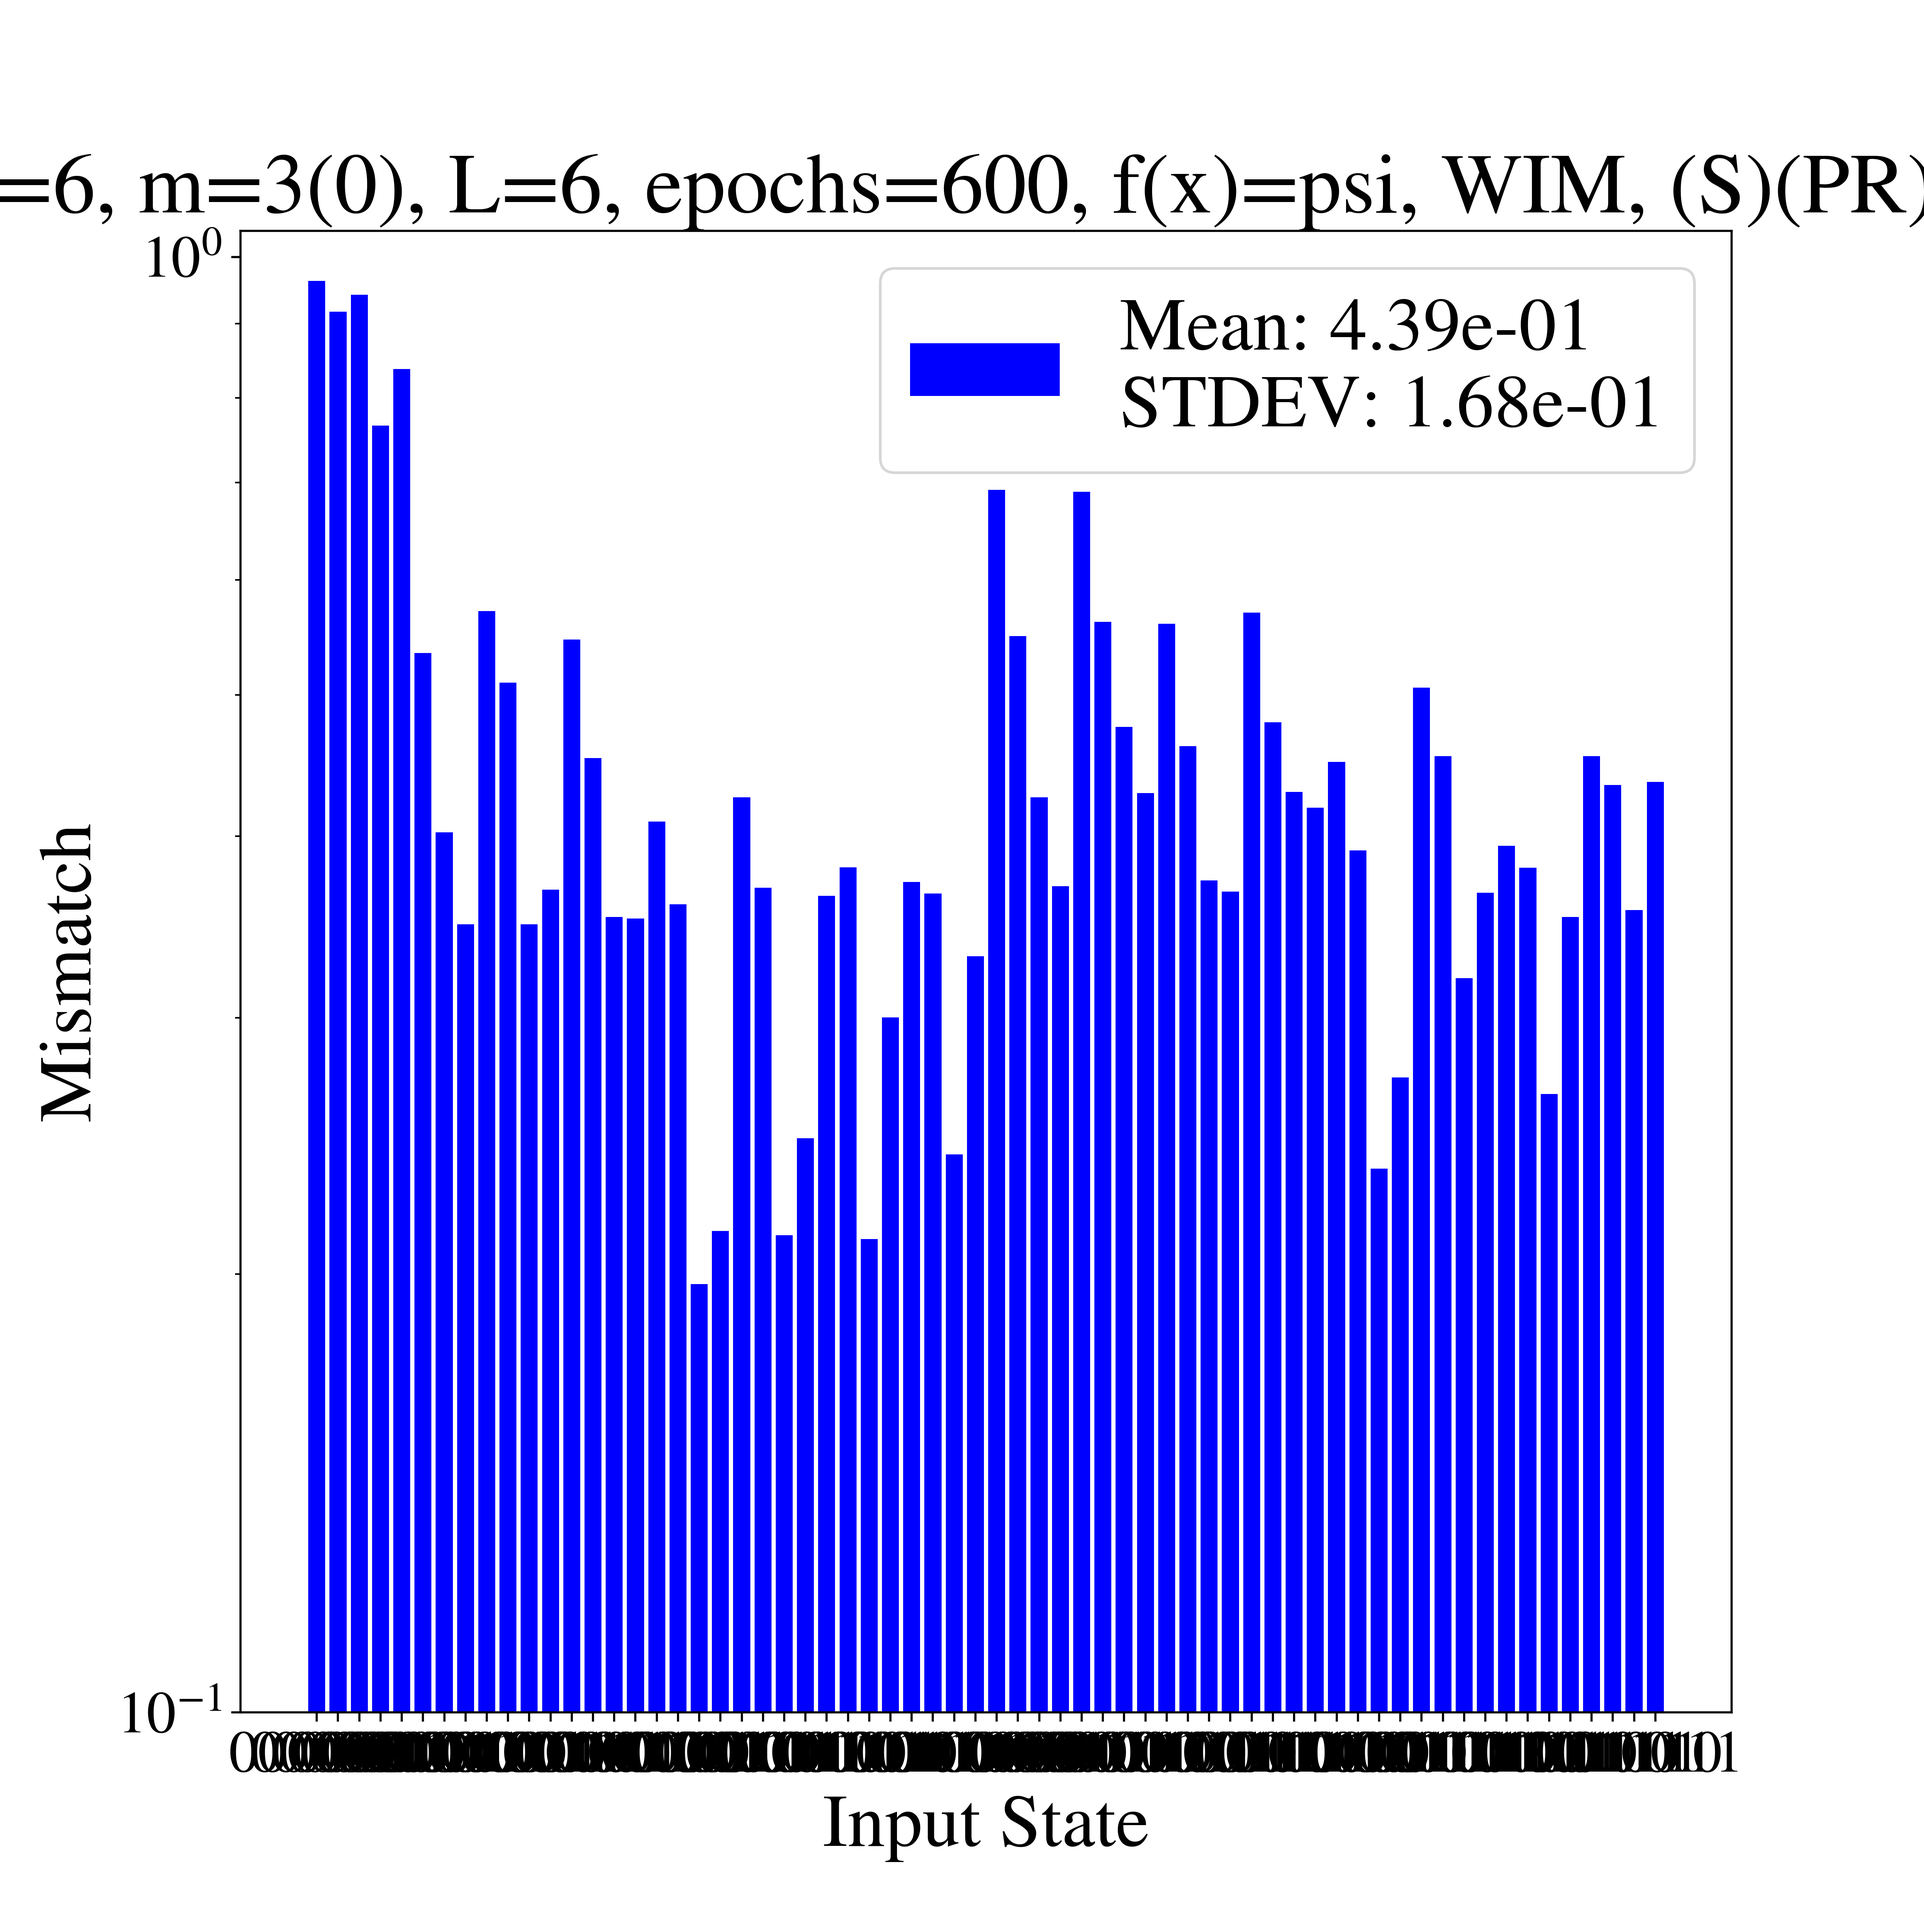
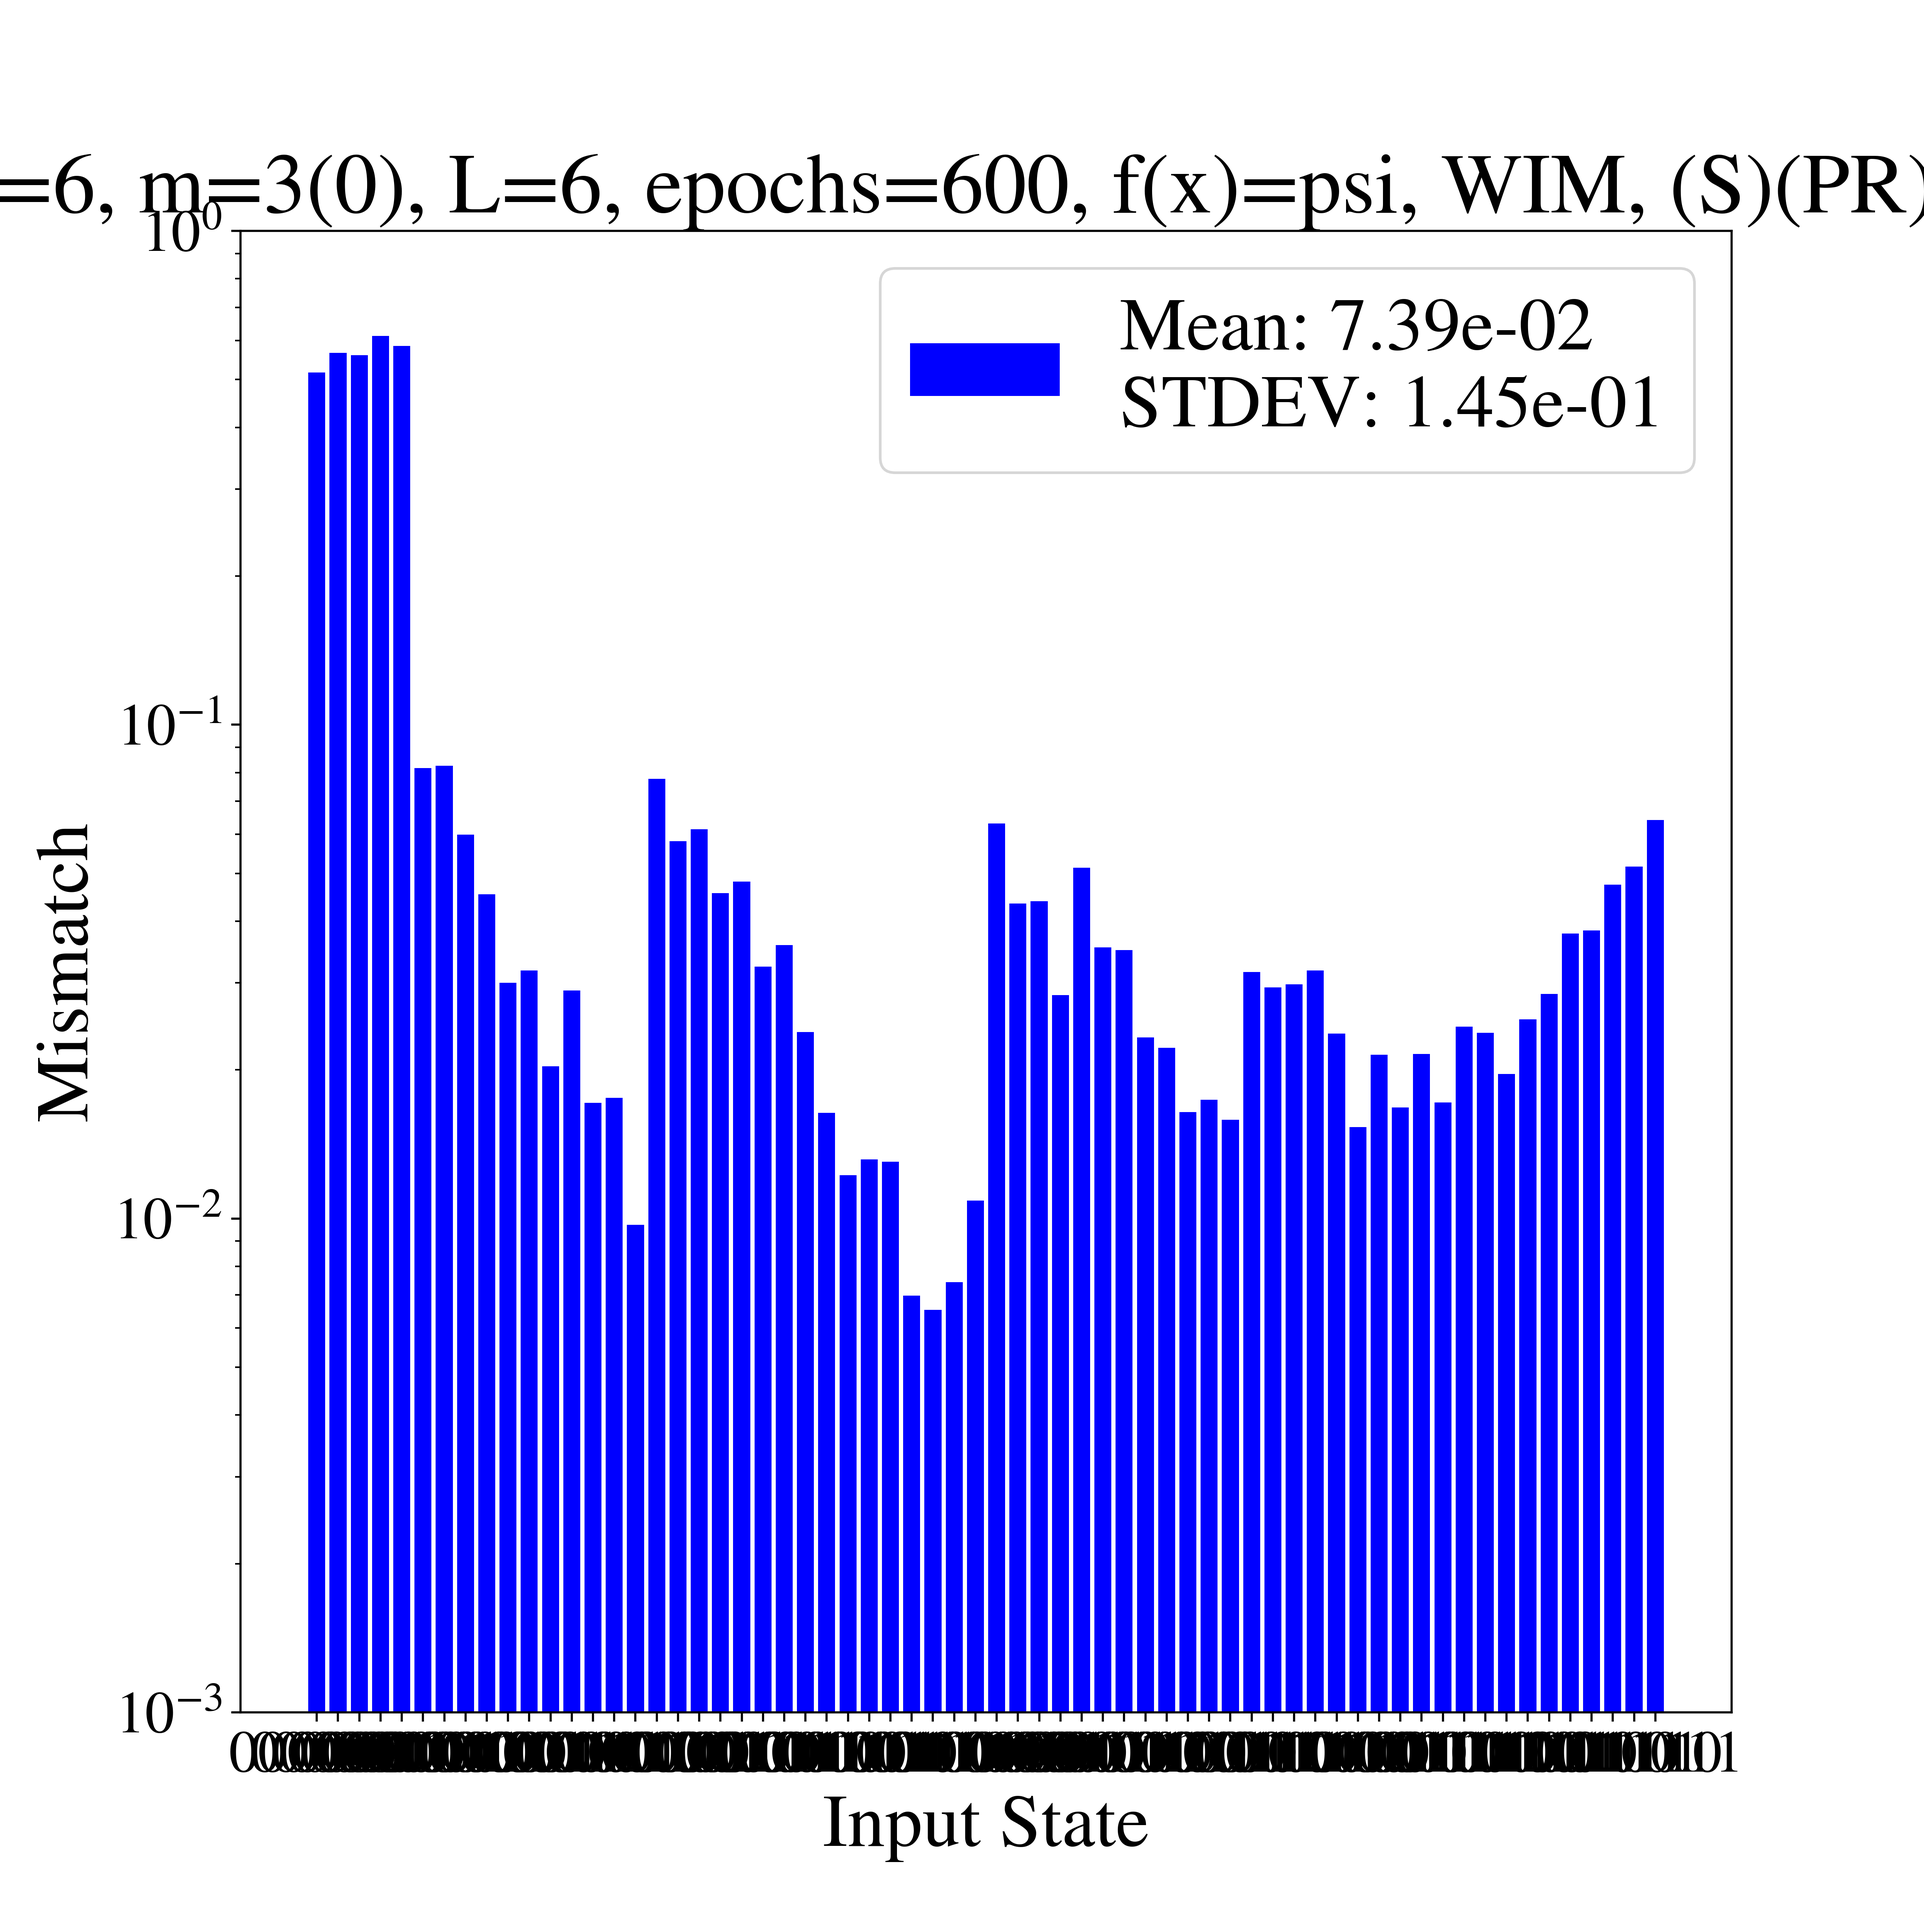
changed WIM to quadratic exp; added smoothing layer

diff --git a/tools.py b/tools.py
@@ -647,7 +647,7 @@ def train_QNN(n,m,L, seed, shots, lr, b1, b2, epochs, func,func_str,loss_str,met
         mismatch_vals[i]=mismatch
 
         # set loss func weights
-        if loss_str=="WIM" and (i % 10 ==0) and (i >100):
+        if loss_str=="WIM" and (i % 10 ==0) and (i >=100):
             
             # initialise arrays to store results 
             temp_mismatch = np.empty(2**n)
@@ -690,7 +690,12 @@ def train_QNN(n,m,L, seed, shots, lr, b1, b2, epochs, func,func_str,loss_str,met
                     ind = int(dec_to_bin(j,m,'unsigned mag',nint=m)+dec_to_bin(x_arr_temp[q],n,'unsigned mag',nint=nint),2) 
                     WIM_weights_arr[ind]= temp_mismatch[q]
 
+            WIM_weights_arr=np.exp(WIM_weights_arr**2)    
+            WIM_weights_arr= WIM_weights_arr / np.sum(WIM_weights_arr)
+
+        elif loss_str=="WIM" and (i % 10 ==5) and (i >=100): 
             WIM_weights_arr=np.exp(WIM_weights_arr)    
+            WIM_weights_arr= WIM_weights_arr / np.sum(WIM_weights_arr)
               
         # temporarily save outputs every hundred iterations
         temp_ind = epochs - 100 

diff --git a/full_encode.py b/full_encode.py
@@ -6,8 +6,8 @@ from tools import psi, bin_to_dec, dec_to_bin, full_encode
 # config 
 L_phase = 6
 real_p = True 
-m = 4
-weights_phase = "outputs/weights_6_4(0)_6_600_psi_MM_(S)(PR)(r).npy"
+m = 3
+weights_phase = "outputs/weights_6_3(0)_6_600_psi_WIM_(S)(PR)(r).npy"
 
 n = 6
 weights_ampl = "ampl_outputs/weights_6_3_600_x76_MM_40_168_.npy" 
@@ -17,11 +17,11 @@ L_ampl =3
 # plot settings
 comp = True # compare to Hayes 2023  
 show = True # show plots
-pdf = True # save outputs as pdf 
+pdf = False # save outputs as pdf 
 delta_round =True #calculate difference from rounded version 
 
-no_A = False # don't produce amplitude plot 
-no_p = True # don't produce phase plot 
+no_A = True # don't produce amplitude plot 
+no_p = False # don't produce phase plot 
 no_h = True # don't produce h plot
 
 # additional plots 

diff --git a/docs/weeks_1-3.tex b/docs/weeks_1-3.tex
@@ -253,7 +253,7 @@ $n=m=2$, $\Psi(x)=x$) do not extrapolate well to more general cases
 \mathsf{WIM}(x,y) =  \left\vert 1 - \sum_j w_j x_j y_j \right \vert, 
 \end{equation}
 where the weights $w_n \in \mathbb{R}_{+}$ may be recomputed between epochs
-\item When training in superposition take $w_j$ to be the (normalised) mismatch between $\hat{Q}_\Psi \ket{j} \ket{0}$ and $\ket{j}\ket{\Psi'(j)}$
+\item When training in superposition take $w_j$ to be the (normalised, smoothed) mismatch between $\hat{Q}_\Psi \ket{j} \ket{0}$ and $\ket{j}\ket{\Psi'(j)}$
 
 \end{itemize}
 OR maybe base weighting on size of "plateau" ? (need to normalise $w x$!) ; or maybe on gradient ??
